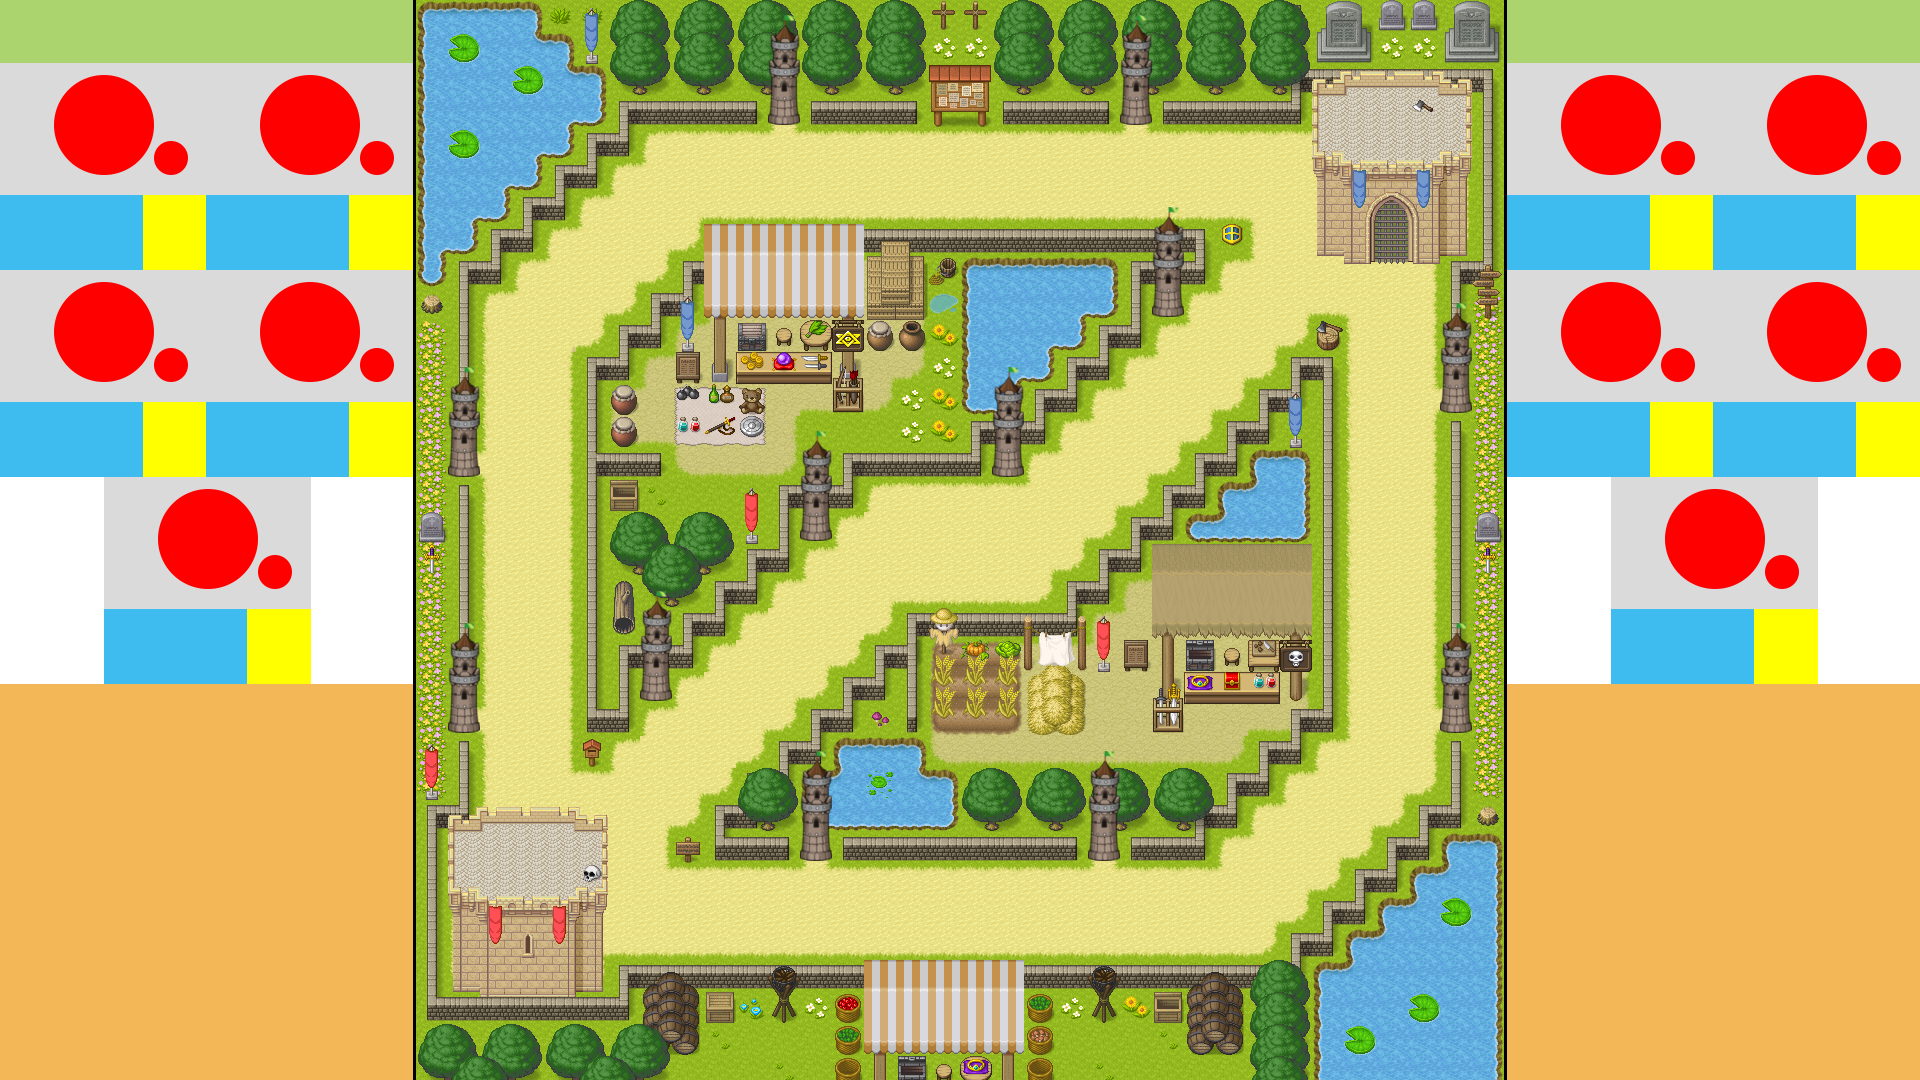
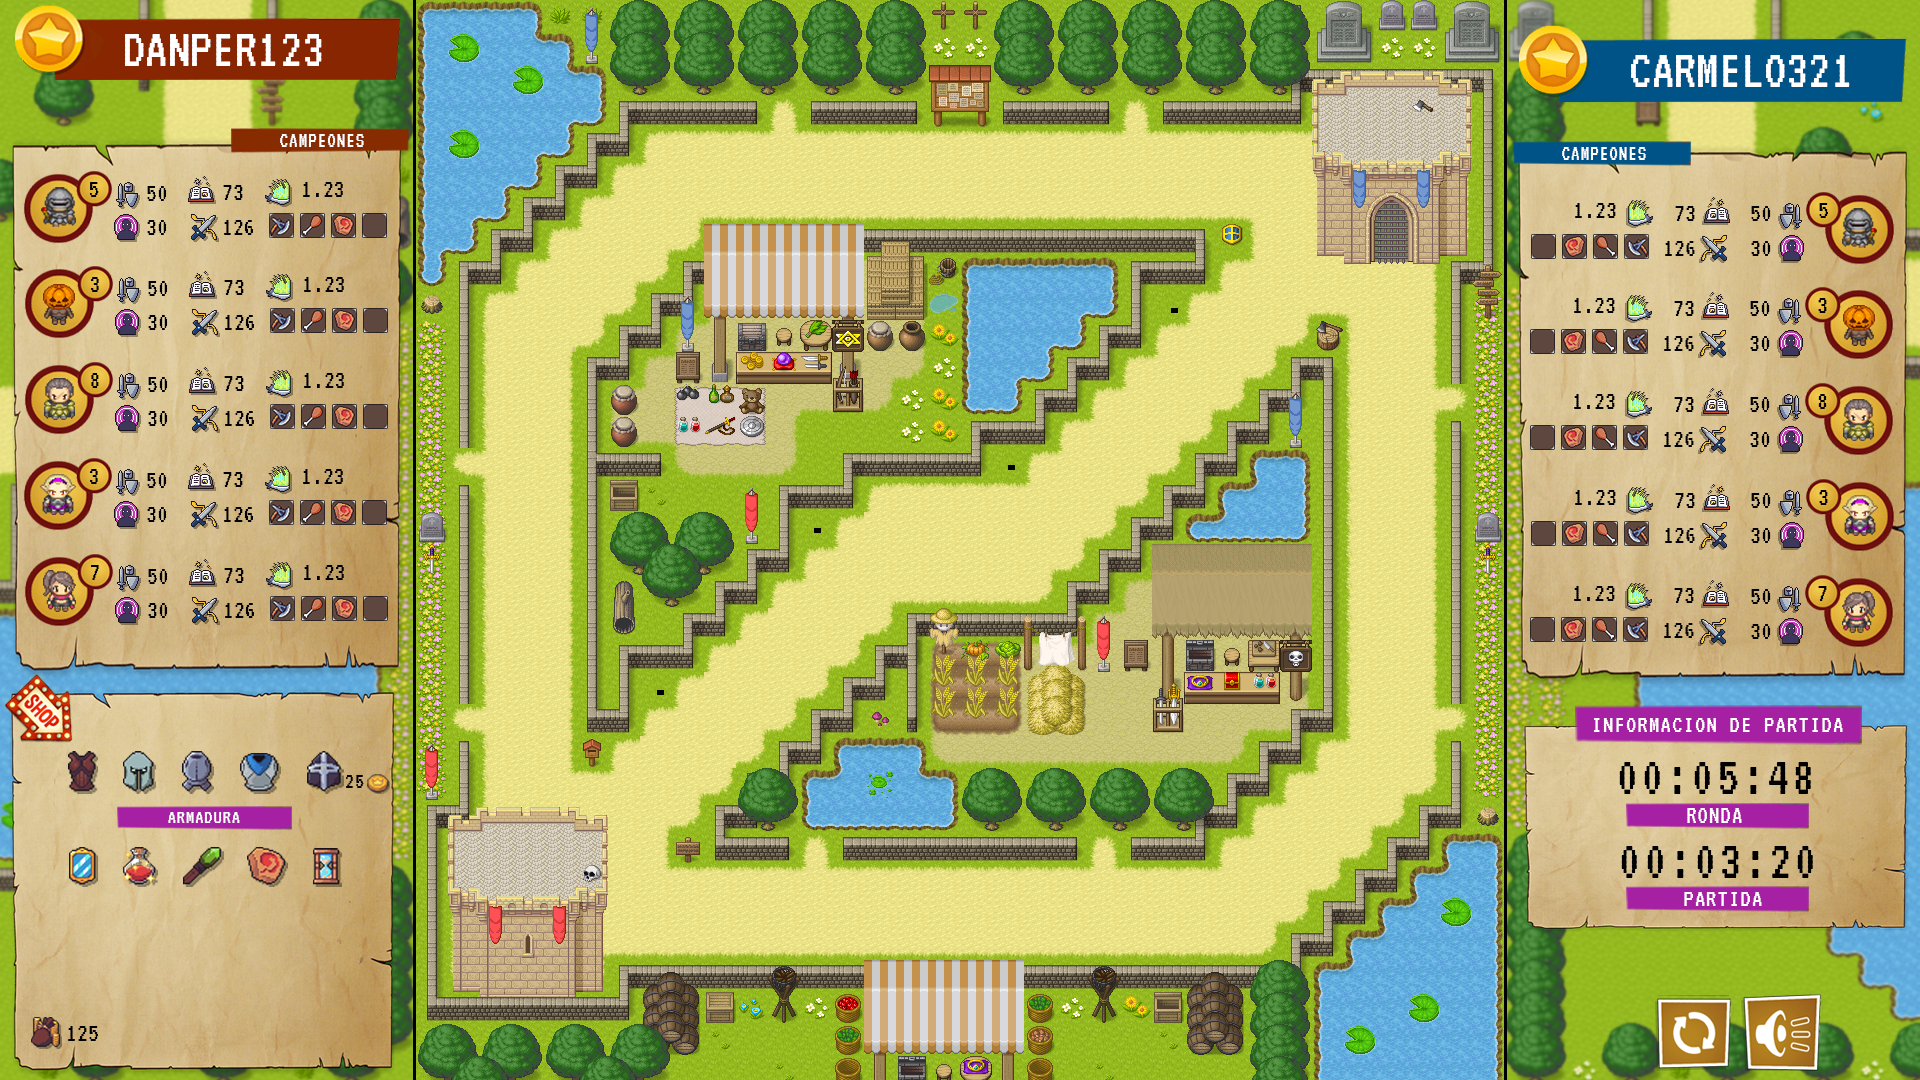
Se aplica la ultima version de la interfaz

diff --git a/codigo/game.py b/codigo/game.py
@@ -37,7 +37,7 @@ class Game:
                         Img_minion_mid_1(), Img_minion_mid_2(), Img_minion_mid_3(), Img_malo_mid_2(), Img_malo_mid_1()]
         self.dinero = 100
         self.dibT = None
-        self.background = pygame.image.load(os.path.join("..", "imagenes", "Guia3.png"))  # INDICA LA RUTA DE LA IMAGEN, PRIMERAS COMILLAS LA CARPETA Y LAS SEGUNDAS EL ARCHIVO
+        self.background = pygame.image.load(os.path.join("..", "imagenes", "Guia.png"))  # INDICA LA RUTA DE LA IMAGEN, PRIMERAS COMILLAS LA CARPETA Y LAS SEGUNDAS EL ARCHIVO
         # self.background = pygame.transform.scale(self.background,(self.width,self.height)) #ESTA SENTENCIA HARA QUE LA IMAGEN DE FONDO SE ESCALE AL TAMAÑO DE LA VENTANA, DE MOMENTO NO ES NECESARIO LO DEJAMOS COMO ANOTACION POR SI ACASO
         self.clicks = []
 
